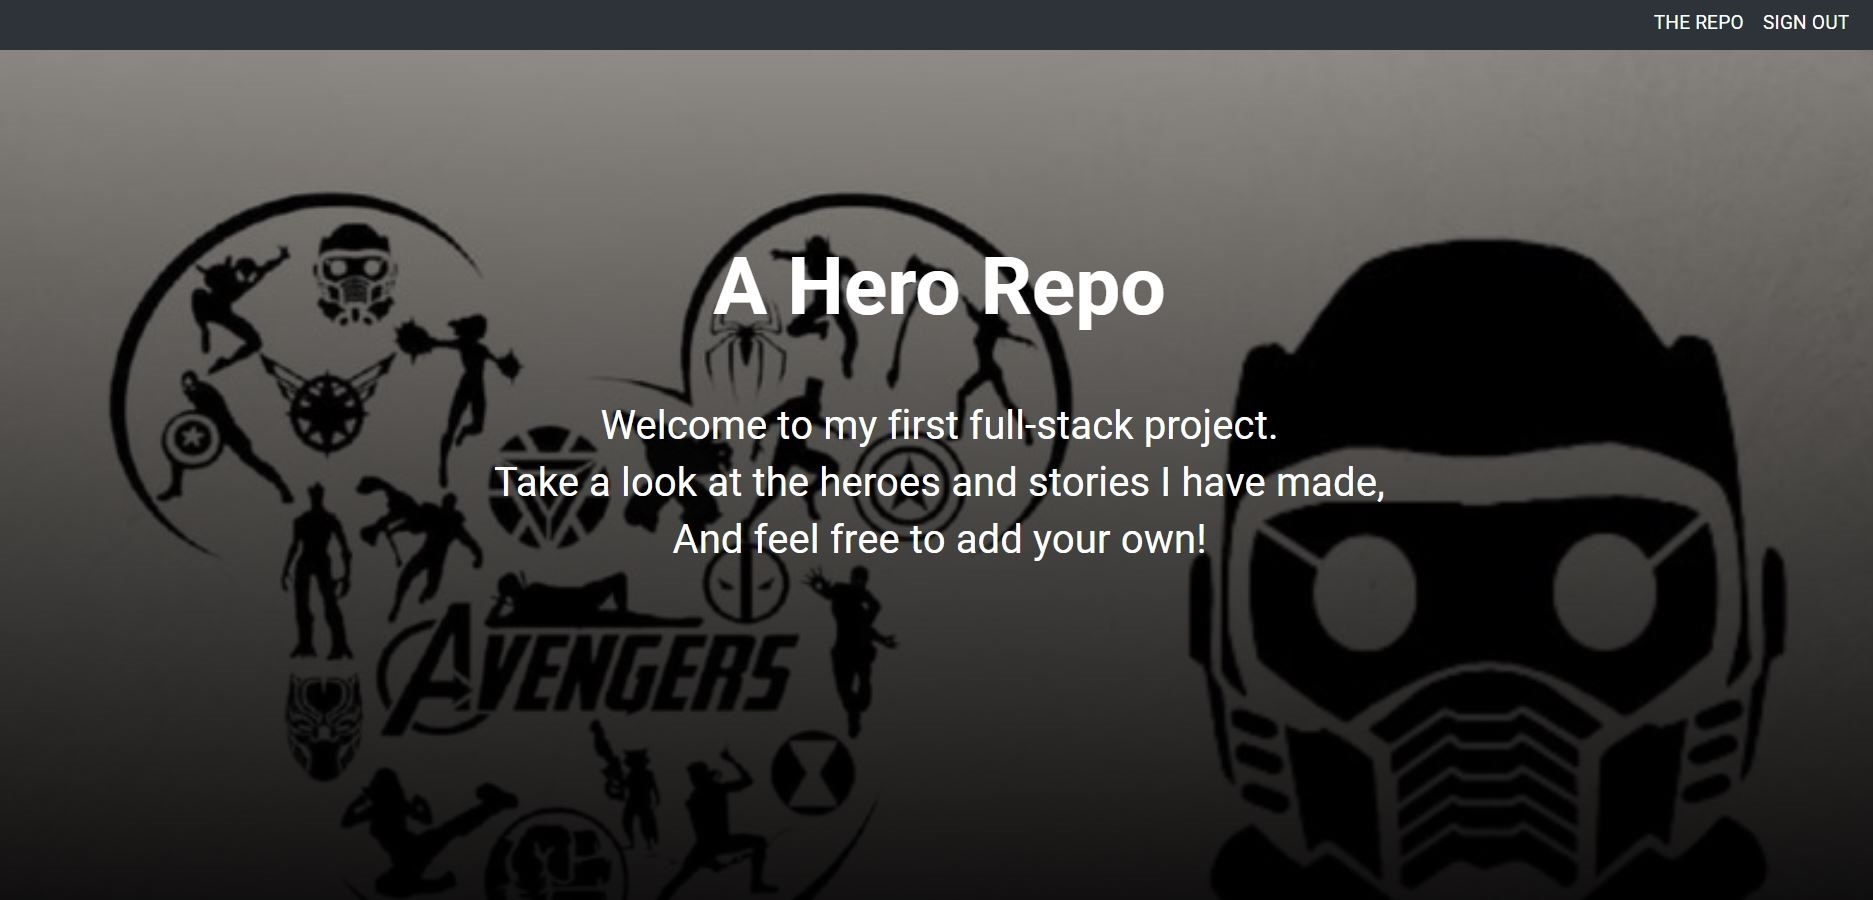
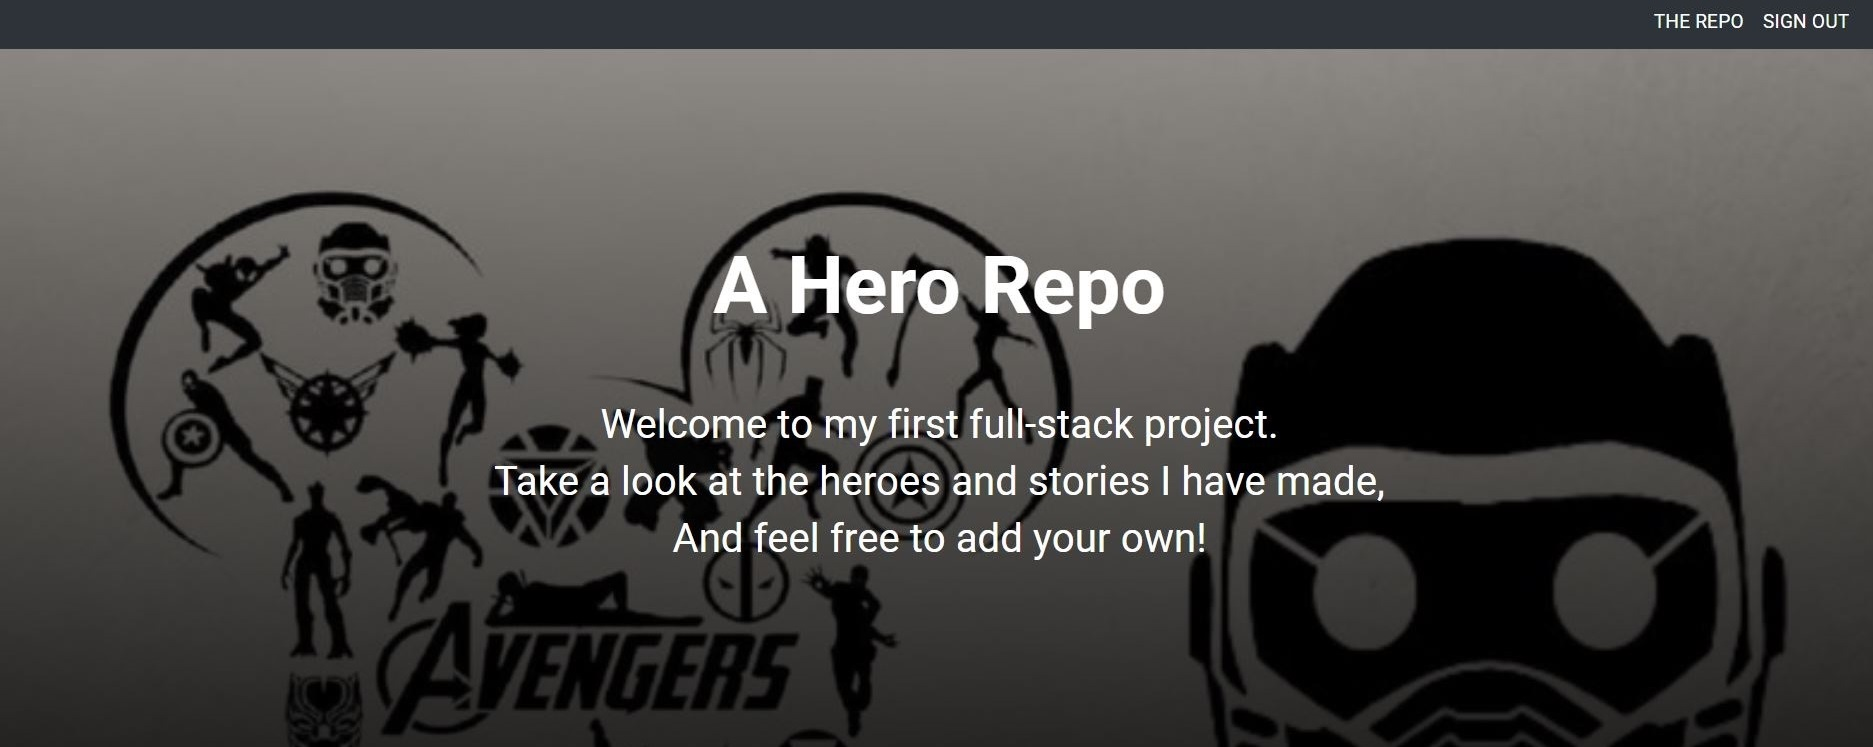
mobile optimization

Changed region(s): [[0.031, 0.2155, 0.96, 1.0], [0.0, 0.0, 1.0, 0.0924]]

diff --git a/src/components/Home/Home.tsx b/src/components/Home/Home.tsx
@@ -38,14 +38,15 @@ const useStyles = makeStyles((theme:Theme) =>
             borderRadius: '3px'
         },
         paper: {
-            marginRight: '1rem',
+            margin: '0.5rem',
             marginBottom: 'auto',
             padding: '1.5rem',
             opacity: '0.75'
         },
         cardS: {
             backgroundColor: 'white',
-            opacity: '0.75'
+            opacity: '0.75',
+            margin: '0.5rem'
         },
         expand: {
             transform: 'rotate(0deg)',
@@ -116,26 +117,26 @@ export const Home = ( props:Props) => {
                 
                 <div className = "nav">
                 
-                    <Typography variant="button" style={{marginRight: '3rem', marginTop: '1.3rem', fontSize: '1.1rem'}}><a href="#about">About Me</a></Typography>
-                    <Typography variant="button" style={{marginRight: '3rem', marginTop: '1.3rem', fontSize: '1.1rem'}}><a href="#projects">Projects</a></Typography>
-                    <Typography variant="button" style={{marginRight: '5rem', marginTop: '1.3rem', fontSize: '1.1rem'}}><a href="#contact">Contact</a></Typography>
+                    <Typography variant="button" style={{marginRight: '3%', marginTop: '1rem', fontSize: '1.1rem'}}><a href="#about">About Me</a></Typography>
+                    <Typography variant="button" style={{marginRight: '3%', marginTop: '1rem', fontSize: '1.1rem'}}><a href="#projects">Projects</a></Typography>
+                    <Typography variant="button" style={{marginRight: '5%', marginTop: '1rem', fontSize: '1.1rem'}}><a href="#contact">Contact</a></Typography>
                 </div>
 
-                <div className="main" id="header" style={{height:'95vh'}}>
+                <div className="main" id="header" style={{minHeight:'95vh'}}>
                     <Typography variant="h1" style={{textAlign: 'center', margin:'auto'}}>Hello World, I'm Ian!</Typography>
                 </div>
 
-                <div className="main" id="about" style={{height: '95vh'}}>    
-                    <Typography variant="h2" style={{marginBottom: '1.0rem'}}>About Me</Typography>
+                <div className="main" id="about" style={{minHeight: '95vh'}}>    
+                    <Typography variant="h2" style={{marginBottom: '1.0rem', paddingLeft:'0.5rem'}}>About Me</Typography>
                     <Grid container spacing={0} style={{paddingBottom:'15rem'}}>
-                        <Grid item xs={8}>
+                        <Grid item md={8} xs={12}>
                             <Paper className={classes.paper}>
                                 <Typography variant="h6" style={{textAlign: 'justify', marginTop: '1rem'}}>I am a full-stack software developer with a flair for the spontaneous, a knack for putting my whole brain into difficult problems, and a love and thirst for the understanding we can gain of this crazy universe.</Typography>
                                 <Typography variant="h6" style={{textAlign: 'justify', marginTop: '1rem'}}>My journey started in High School, on an old HP laptop running Slackware, and a friend. My road has gone through research in chemistry, medical school and medical scribing, and contract teaching in Chicago. </Typography>
                             </Paper>
                         </Grid>
                         
-                        <Grid item xs={4}>   
+                        <Grid item md={4} xs={12}>   
                             <Paper className={classes.paper} style={{padding:'0rem'}}> 
                                 <img src={bitpic} className={classes.sideBarPic}></img>
                                 <div className="icons">
@@ -154,11 +155,11 @@ export const Home = ( props:Props) => {
                     </Grid>
                 </div>
 
-                <div className="main" id="projects" style={{height:'100vh'}}>
-                    <Typography variant="h2" style={{marginBottom: '1.0rem'}}>My Projects</Typography>
+                <div className="main" id="projects" style={{minHeight:'100vh'}}>
+                    <Typography variant="h2" style={{marginBottom: '1.0rem', paddingLeft: '0.5rem'}}>My Projects</Typography>
                     <Grid container spacing={0} direction="row" justifyContent="flex-start" alignItems="flex-start">
-                        <Grid item xs={6}>
-                            <Card className={classes.cardS} style={{marginRight: '1rem', marginBottom: '1rem'}}>
+                        <Grid item md={6} xs={12}>
+                            <Card className={classes.cardS}>
                                 <CardActionArea
                                     onClick={handleExpandClick1}
                                     aria-expanded={expanded1}
@@ -208,7 +209,7 @@ export const Home = ( props:Props) => {
                             </Card>
                         </Grid>
                         
-                        <Grid item xs={6}>
+                        <Grid item md={6} xs={12}>
                             <Card className={classes.cardS}>
                                 <CardActionArea
                                 onClick={handleExpandClick2}
@@ -308,7 +309,7 @@ export const Home = ( props:Props) => {
                 </div>  
                 <div style={{scrollSnapAlign:"center", height:'0'}}></div>                    
                 <div className="main" id="contact" style={{height:'115vh', scrollSnapAlign: 'end'}}>
-                    <Typography variant="h2" style={{marginBottom: '2rem'}}>Contact Me</Typography>
+                    <Typography variant="h2" style={{marginBottom: '2rem', paddingTop: '2rem'}}>Contact Me</Typography>
                     <Paper className="contactcapsule">
                         <form className="contactform" onSubmit={onSubmit} id="contactform">
                             

diff --git a/src/components/Home/Home.css b/src/components/Home/Home.css
@@ -4,7 +4,7 @@
     flex-grow: 1;
     padding: 0;
     margin: 0;
-    background-image: linear-gradient(rgba(0, 0, 0, 0.0), rgba(0, 0, 0, 0.6)), url(../assets/images/chibg.jpg);
+    background-image: linear-gradient(rgba(0, 0, 0, 0.0), rgba(0, 0, 0, 0.0)), url(../assets/images/chibg.jpg);
     background-size: cover;
     width: 100vw;
     height: 100vh;
@@ -22,11 +22,13 @@
     position: relative;
     width: 80%;
     max-width: 1000px;
-    min-width: 600px;
+    min-width: 300px;
     margin-left: auto;
     margin-right: auto;
-    height: 97vh;
-    scroll-snap-align: center;
+    padding-right: 0.5rem;
+    padding-left: 0.5rem;
+    min-height: 97vh;
+    scroll-snap-align: start;
     display: flex;
     flex-direction: column;
     justify-content: center;
@@ -44,7 +46,7 @@
 }
 
 .nav {
-    min-width: 600px;
+    min-width: 300px;
     position: fixed;
     height: 3rem;
     width: 100vw;
@@ -57,7 +59,6 @@
 
 .contactcapsule {
     padding:2rem;
-    width:50%;
     margin-left:auto;
     margin-right:auto;
     opacity: 0.75;
